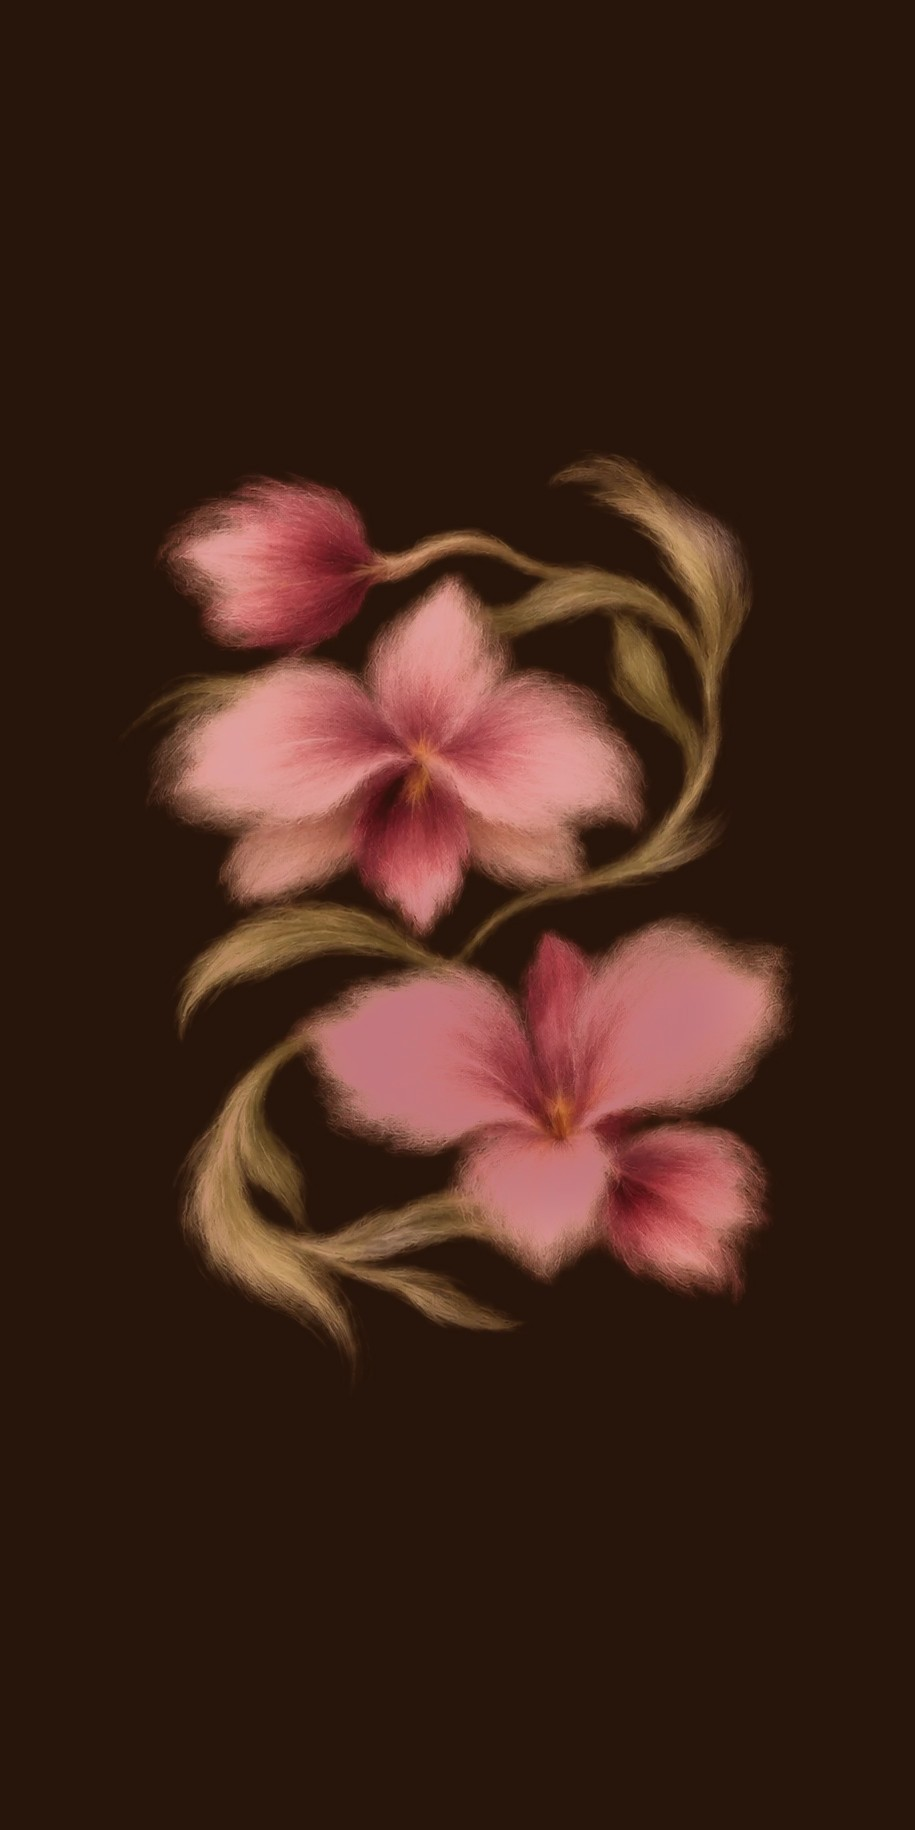
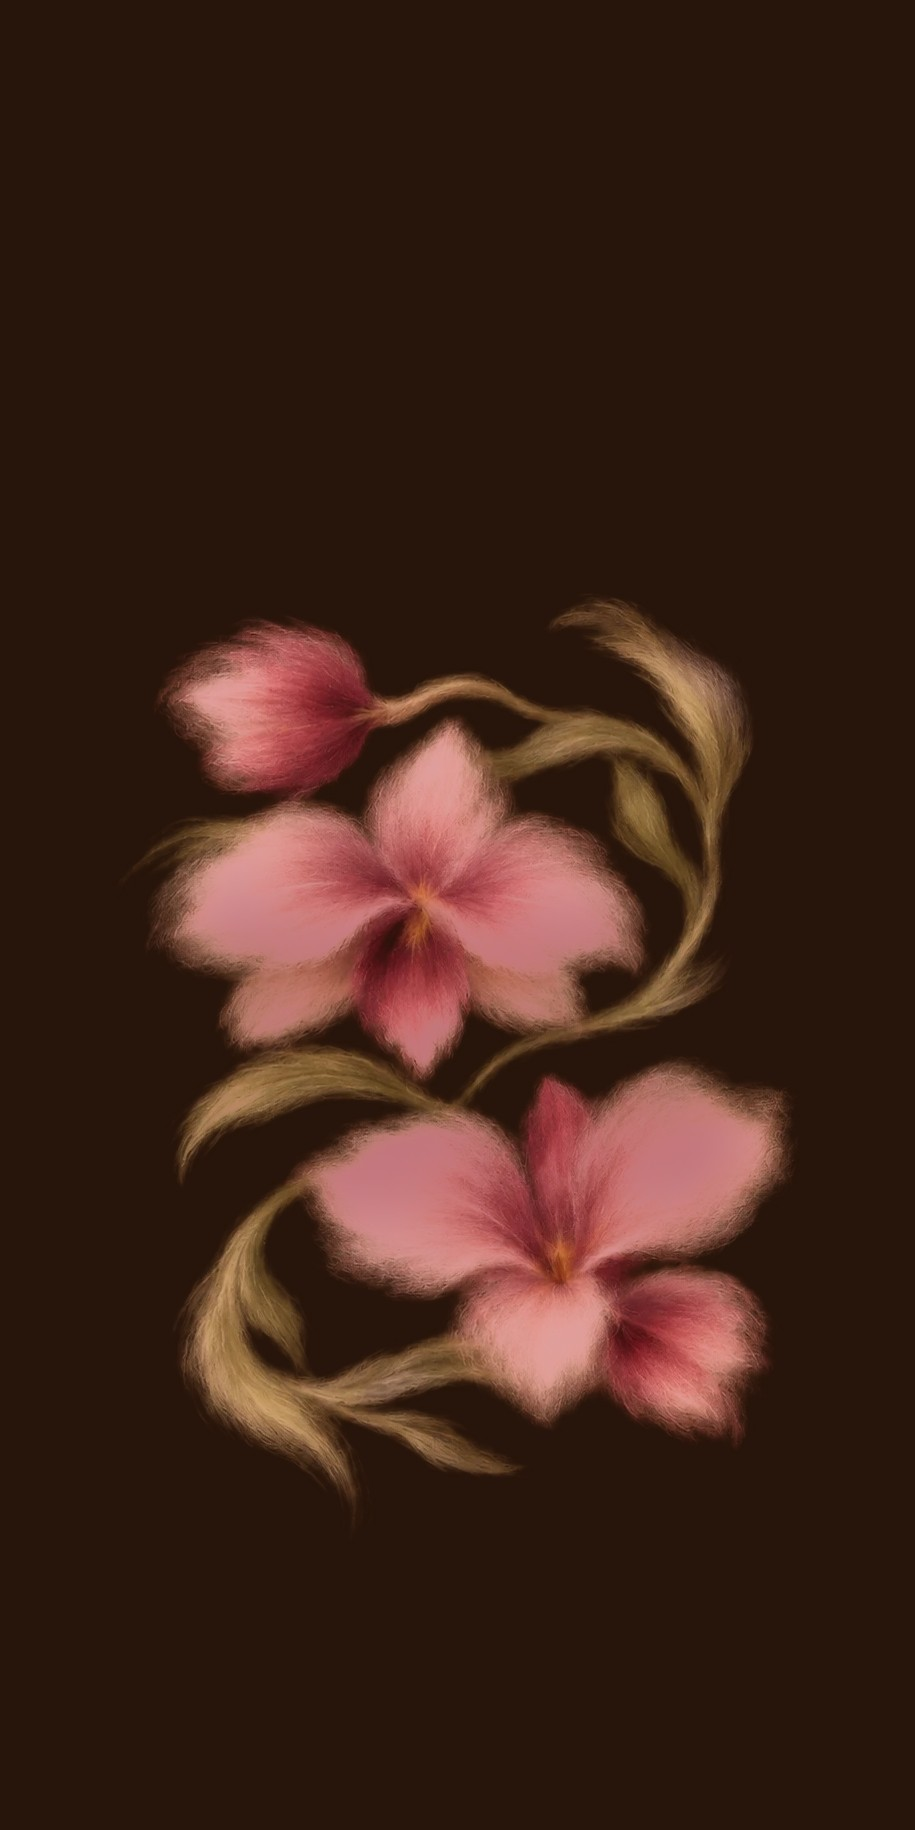
style: las flores de portada un pelin mas abajo, centradas con las letras

Changed region(s): [[0.153, 0.2492, 0.8874, 0.841]]

diff --git a/index.html b/index.html
@@ -119,8 +119,8 @@
             <!-- Las flores a pastel sobre fondo marron oscuro: en vertical en el movil
                  y giradas en horizontal en el ordenador, ocupando casi toda la pantalla. -->
             <picture>
-              <source media="(max-width: 820px)" srcset="assets/images/hero-flores-movil.jpg?v=4" />
-              <img class="hero__photo" src="assets/images/hero-flores-ordenador.jpg?v=4" alt="" />
+              <source media="(max-width: 820px)" srcset="assets/images/hero-flores-movil.jpg?v=5" />
+              <img class="hero__photo" src="assets/images/hero-flores-ordenador.jpg?v=5" alt="" />
             </picture>
           </div>
           <div class="hero__copy">
